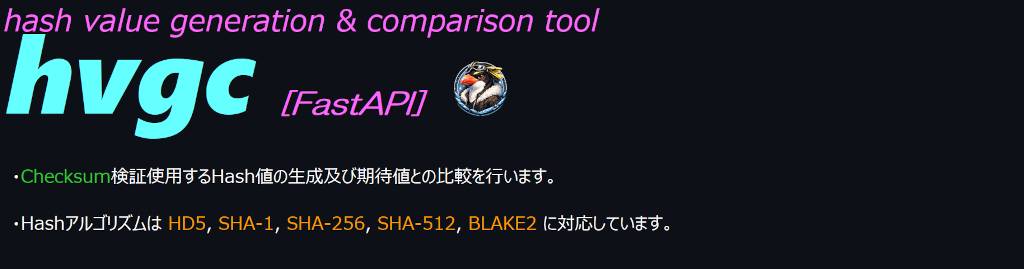
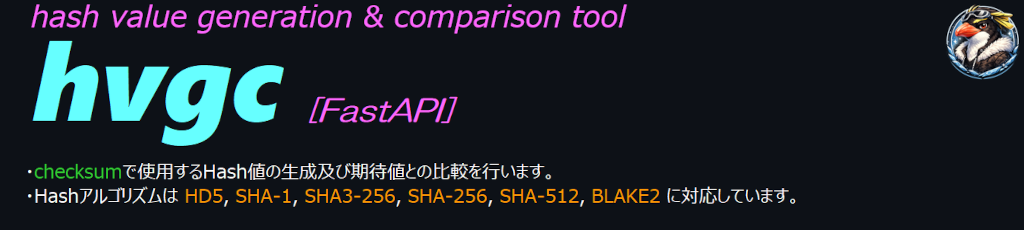
Environment update

Changed region(s): [[0.0, 0.0304, 0.7812, 0.8826], [0.9062, 0.0, 1.0, 0.3652]]

diff --git a/templates/index.html b/templates/index.html
@@ -193,9 +193,9 @@
 
       <div class="row" style="margin-top: 14px;">
           <div class="label">Hash Algorithm:</div>
-          <label><input type="radio" name="algo" value="md5"> HD5</label>
+          <label><input type="radio" name="algo" value="md5"> MD5</label>
           <label><input type="radio" name="algo" value="sha1"> SHA-1</label>
-          <label><input type="radio" name="algo" value="sha3_256"> SHA-3</label>
+          <label><input type="radio" name="algo" value="sha3_256"> SHA3-256</label>
           <label><input type="radio" name="algo" value="sha256" checked> SHA-256</label>
           <label><input type="radio" name="algo" value="sha512"> SHA-512</label>
           <label><input type="radio" name="algo" value="blake2b"> BLAKE2</label>

diff --git a/README.md b/README.md
@@ -47,6 +47,25 @@
 - 配布物の改ざん検知（内容保証）
 - 検証作業の自動化前段階としての利用
 
+## UI Components  
+### Display content
+>| Item | Description | I/O |
+>|:--|:--|:--:|  
+>|Check subject |Hash生成対象ファイル|In|  
+>|Hash Expectation |Hash期待値|In|  
+>|Generated Hash |生成Hash Key|Out|  
+>|Messages and tutorials |処理メッセージ及び操作方法|Out|  
+### Buttons and Checkboxes
+>| Button | Description |  
+>|:--|:--|  
+>|Select|Hash生成対象ファイル選択|  
+>|Paste|期待値ペースト(クリップボード内容をペースト)|  
+>|Copy|生成Hash Keyをコピー|  
+>|<img src="./assets/env/M_radiobutton.png" height="12"> Hash Algorithm|Hash生成アルゴリズム<br>　MD5 / SHA-1 / SHA3-256 / SHA-256 / SHA-512 / BLAKE2 から選択|  
+>|Check|Hash生成及び期待値比較|  
+>|Clear|入力情報消去|  
+>|Exit|ツール終了|  
+
 ## Tech Stack
 - Python 3.x
 - FastAPI
@@ -57,18 +76,16 @@
 - Python 3.10 以上
 - pip
 
-## Install
-　![](./assets/env/M_SHELL_BASH-PWSH.png)   
-　```
-pip install -r requirements.txt  
-　```
+<!-- ## Build (for developers)  -->
+## Common development environment
+　　[<img src="./assets/env/M_link.png" height="14"> **Common settings for the development environment**](https://github.com/AHazeyama/Tkinter_tools/blob/main/CommonSettings.md)  
+　　<img src="./assets/env/M_infoG.png" height="14"> `Tech Stack`の項目をインストールする事。
 
 ## Run (Local)
-　![](./assets/env/M_SHELL_BASH-PWSH.png)  
-　```
-uvicorn app:app --host 0.0.0.0 --port 8000 --reload
-　```
-
+　<img src="./assets/env/M_SHELL_PWSH.png" height="12">  
+```pwsh
+　uvicorn app:app --host 0.0.0.0 --port 8000 --reload
+```
 ## Access
 * Application  
 http://localhost:8000
@@ -77,19 +94,15 @@ http://localhost:8000/docs
 
 ## Run with Docker
 　Docker を使用して実行することもできます。  
-
-## Build
-　Docker作成  
-　![](./assets/env/M_SHELL_BASH.png)  
-　```pwsh
-docker build -t hvgc_fa .  
-　```  
-
+　<img src="./assets/env/M_SHELL_PWSH.png" height="12">  
+　　Docker作成  
+```pwsh  
+　　docker build -t hvgc_fa .  
+```  
 　Docker実行  
-　![](./assets/env/M_SHELL_BASH.png)  
-　```
-docker run -p 8000:8000 hvgc_fa
-　```
+```pwsh  
+　　docker run -p 8000:8000 hvgc_fa
+```
 
 ## Access
 * Application  
